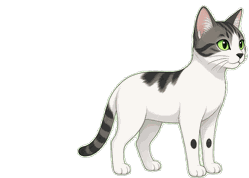
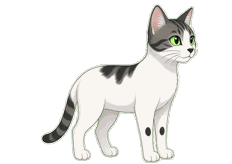
cc101: 8-frame cat walk cycle at 13fps, scale-matched poses, torso-centre flip, 80px desktop

Changed region(s): [[0.1509, 0.0305, 0.9957, 1.0]]

diff --git a/index.html b/index.html
@@ -30,8 +30,8 @@
 <link rel="icon" href="/favicon.ico" sizes="16x16 32x32 48x48 64x64">
 <link rel="icon" href="/assets/SFF.svg" type="image/svg+xml">
 <link rel="apple-touch-icon" href="/apple-touch-icon.png" sizes="180x180">
-<link rel="stylesheet" href="/assets/style.css?v=cc100">
-<script src="/assets/app.js?v=cc100" defer></script>
+<link rel="stylesheet" href="/assets/style.css?v=cc101">
+<script src="/assets/app.js?v=cc101" defer></script>
 </head><body>
 <a class="skip-link" href="#holdings-page">Skip to the holdings page</a><canvas id="matrix-rain" aria-hidden="true"></canvas><div class="rain" aria-hidden="true">SAUL FINANCE · SAUL FINANCE · SAUL FINANCE</div>
 <header class="site-header"><svg class="header-road" aria-hidden="true" focusable="false"></svg><svg class="header-lasers" aria-hidden="true" focusable="false"></svg><div class="header-market-stack"><div class="daily-pnl-strip daily-pnl-header" id="daily-pnl-strip-header" aria-live="polite"><span class="daily-pnl-label">Daily PNL</span><span class="daily-pnl-face" aria-hidden="true"></span><span class="daily-pnl-value is-live-wait"><span class="live-wait" aria-hidden="true"><i></i><i></i><i></i></span></span><span class="daily-pnl-since" hidden></span><span class="daily-pnl-meta"></span></div><div class="daily-pnl-hot" id="daily-pnl-hot-header" hidden></div><div class="index-strip index-strip-header" id="index-strip-header" hidden></div></div><div class="brand-row"><div class="brand-title-block"><div class="brand-title-stack"><h1><svg class="angular-s" viewBox="0 0 60 64" aria-label="S"><path d="M49 16 H20 L12 23 V29 L20 35 H40 L48 42 V48 L40 54 H12"/></svg><span>AUL FINANCE FUND</span></h1><picture class="brand-jaguar"><source srcset="/assets/jaguar-wheels.webp?v=cc62" type="image/webp"><img class="brand-jaguar-img" src="/assets/jaguar-wheels.gif?v=cc62" alt="Black Jaguar" width="720" height="232"></picture></div></div><div class="market-clocks"><aside class="market-clock market-clock-close" id="close-clock" hidden aria-label="Time until scheduled exchange close"><span id="close-market-label">MARKET CLOSES</span><strong id="close-countdown" aria-live="off">--:--:--</strong><span id="close-at"></span></aside><aside class="market-clock market-clock-open" aria-label="Next scheduled exchange opening"><span id="open-market-label">NEXT SCHEDULED OPEN</span><strong id="open-countdown" aria-live="off">--:--:--</strong><span id="open-at">Checking bundled calendar…</span></aside></div><img class="sff" src="/assets/SFF.svg" width="40" height="40" alt="SFF"></div><nav class="topnav" aria-label="Content pages"><button data-page="0" aria-controls="holdings-page" aria-current="page">1 · Holdings</button><button data-page="1" aria-controls="dividends">2 · Dividends</button><button data-page="2" aria-controls="covered-calls">3 · Covered Calls</button><button data-page="3" aria-controls="sectors">4 · Sectors</button><button data-page="4" aria-controls="outlook">5 · Outlook</button></nav><div class="header-holdings-heading" aria-hidden="true"><p class="header-holdings-kicker">CONTENT PAGE 1 / 5</p><p class="header-holdings-title">Get Rich Slowly.</p><p class="header-holdings-launch"><svg class="launch-rocket" xmlns="http://www.w3.org/2000/svg" viewBox="0 0 18 18" width="12" height="12" aria-hidden="true" focusable="false"><g transform="rotate(45 9 9)"><path fill="#38ff77" d="M9 12.05C7.45 12.55 7.05 15.1 9 17.45 10.95 15.1 10.55 12.55 9 12.05Z"/><path fill="#c8ffd8" d="M9 12.95C8.15 13.3 7.95 14.85 9 16.35 10.05 14.85 9.85 13.3 9 12.95Z"/><path fill="#b07072" d="M5.4 10.2 9 12.05 4.45 13.45Z"/><path fill="#b07072" d="M12.6 10.2 9 12.05 13.55 13.45Z"/><rect x="7.05" y="4.45" width="3.9" height="7.6" rx="1.95" fill="#f1f4f2"/><circle cx="9" cy="7.35" r="1.15" fill="#18261d"/><path fill="#c45b5e" d="M9 1.35 11.5 5.3H6.5Z"/></g></svg> Launched November 9, 2026 <svg class="launch-rocket" xmlns="http://www.w3.org/2000/svg" viewBox="0 0 18 18" width="12" height="12" aria-hidden="true" focusable="false"><g transform="rotate(45 9 9)"><path fill="#38ff77" d="M9 12.05C7.45 12.55 7.05 15.1 9 17.45 10.95 15.1 10.55 12.55 9 12.05Z"/><path fill="#c8ffd8" d="M9 12.95C8.15 13.3 7.95 14.85 9 16.35 10.05 14.85 9.85 13.3 9 12.95Z"/><path fill="#b07072" d="M5.4 10.2 9 12.05 4.45 13.45Z"/><path fill="#b07072" d="M12.6 10.2 9 12.05 13.55 13.45Z"/><rect x="7.05" y="4.45" width="3.9" height="7.6" rx="1.95" fill="#f1f4f2"/><circle cx="9" cy="7.35" r="1.15" fill="#18261d"/><path fill="#c45b5e" d="M9 1.35 11.5 5.3H6.5Z"/></g></svg></p><span class="header-holdings-pnl" id="header-launch-pnl" hidden></span></div><div class="header-holdings-aside"></div></header>

diff --git a/assets/app.js b/assets/app.js
@@ -2642,12 +2642,12 @@ loadUpcomingDividends();
   navBtns.forEach(btn=>btn.addEventListener('click',()=>requestAnimationFrame(()=>requestAnimationFrame(layoutHeaderLasers))));
 })();
 
-/* cc100: header cat — walks the green header line (road on desktop, border on mobile). */
+/* cc100/cc101: header cat — walks the green header line (road on desktop, border on mobile). */
 (function(){
   const header=document.querySelector('.site-header');
   if(!header)return;
-  const base='/assets/cat/',V='?v=cc100';
-  const WALK=['walk_r1','walk_r2','walk_r3','walk_r4'].map(n=>base+n+'.png'+V);
+  const base='/assets/cat/',V='?v=cc101';
+  const WALK=[1,2,3,4,5,6,7,8].map(n=>base+'walk_r'+n+'.png'+V),NF=WALK.length,FPS=13;
   const POSE={idle:base+'idle.png'+V,sit:base+'sit.png'+V,lookup:base+'lookup.png'+V};
   [...WALK,...Object.values(POSE)].forEach(s=>{const i=new Image();i.src=s;i.decode?.().catch(()=>{});});
   const img=document.createElement('img');
@@ -2655,12 +2655,12 @@ loadUpcomingDividends();
   img.src=POSE.idle;header.appendChild(img);
   const desk=window.matchMedia('(min-width:1024px)');
   const still=window.matchMedia('(prefers-reduced-motion: reduce)');
-  const AR=249/178,ORG=0.7; // canvas aspect; flip pivot (body centre) as fraction of width
+  const AR=232/164,ORG=134.5/232; // canvas aspect; flip pivot = torso centre as fraction of width
   let g={w:390,floor:97,hx1:-1,hx2:-1,hump:0,h:76,cw:106,tx:-1};
   function geom(){
     const hr=header.getBoundingClientRect();
     g.w=header.clientWidth;
-    let h=76;
+    let h=80;
     if(desk.matches){
       g.floor=header.clientHeight-1.1;
       const b=[...header.querySelectorAll('.topnav button')];
@@ -2676,7 +2676,7 @@ loadUpcomingDividends();
     const t=[document.querySelector('.header-holdings-title'),document.getElementById('holdings-title')].find(e=>e&&e.getBoundingClientRect().width>0);
     g.tx=t?(r=>r.left+r.width/2-hr.left)(t.getBoundingClientRect()):-1;
   }
-  const lo=()=>g.cw*ORG, hi=()=>g.w-g.cw*ORG; // range for body centre c
+  const EXT=Math.max(ORG,1-ORG);const lo=()=>g.cw*EXT, hi=()=>g.w-g.cw*EXT; // keeps whole cat on the line either facing
   const floorAt=c=>(g.hx1>=0&&c>=g.hx1&&c<=g.hx2)?g.hump:g.floor;
   let c=0,y=0,dir=1,state='walk',target=0,until=0,frame=0,ft=0,last=0,lookCool=0,src='';
   const rnd=(a,b)=>a+Math.random()*(b-a);
@@ -2693,9 +2693,9 @@ loadUpcomingDividends();
   function tick(now){
     const dt=Math.min(0.05,(now-(last||now))/1000);last=now;
     if(state==='walk'){
-      const sp=desk.matches?55:38;
+      const sp=g.h*0.65; // ~stride per 8-frame cycle, scaled to size
       c+=dir*sp*dt;
-      ft+=dt;if(ft>=1/9){ft%=1/9;frame=(frame+1)%4;}
+      ft+=dt;if(ft>=1/FPS){ft%=1/FPS;frame=(frame+1)%NF;}
       set(WALK[frame]);
       if(g.tx>=0&&now>lookCool&&Math.abs(c-g.tx)<14){lookCool=now+12000;
         if(Math.random()<0.6){state='pose';set(POSE.lookup);until=now+rnd(1000,2000);}}

diff --git a/assets/style.css b/assets/style.css
@@ -2033,5 +2033,5 @@ body:has(#close-clock:not([hidden])) .header-holdings-aside{
 /* cc97: desktop, center My strategy summary under the YouTube mark. */
 @media(min-width:1024px){#covered-calls .cc-strategy summary{justify-content:center}}
 
-/* cc100: header cat */
-.sff-cat{position:absolute;left:0;top:0;height:76px;width:auto;max-width:none;pointer-events:none;user-select:none;z-index:4;transform-origin:70% 100%;will-change:transform;image-rendering:auto}
+/* cc100/cc101: header cat */
+.sff-cat{position:absolute;left:0;top:0;height:76px;width:auto;max-width:none;pointer-events:none;user-select:none;z-index:4;transform-origin:58% 100%;will-change:transform;image-rendering:auto}
